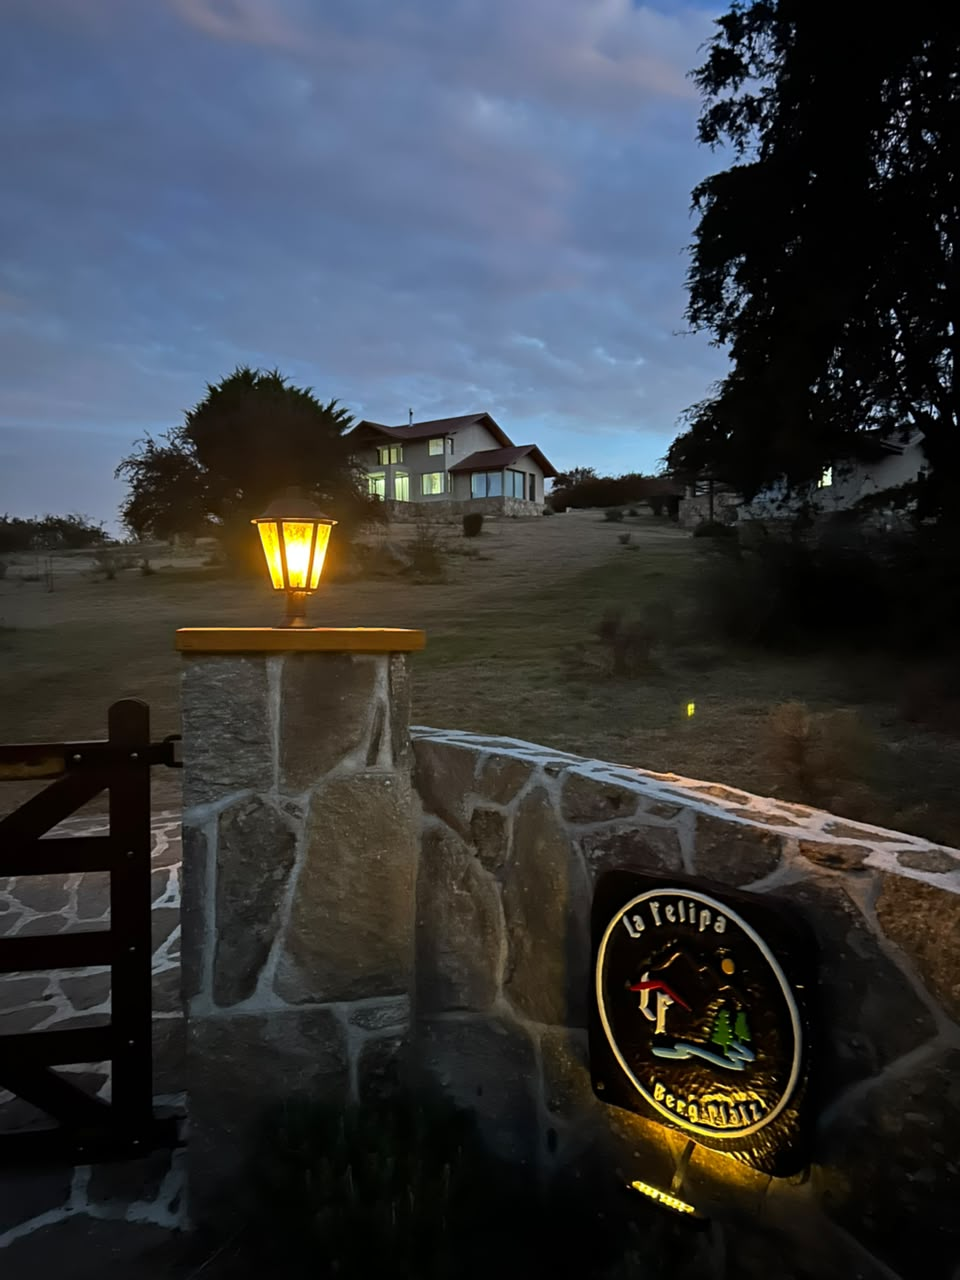
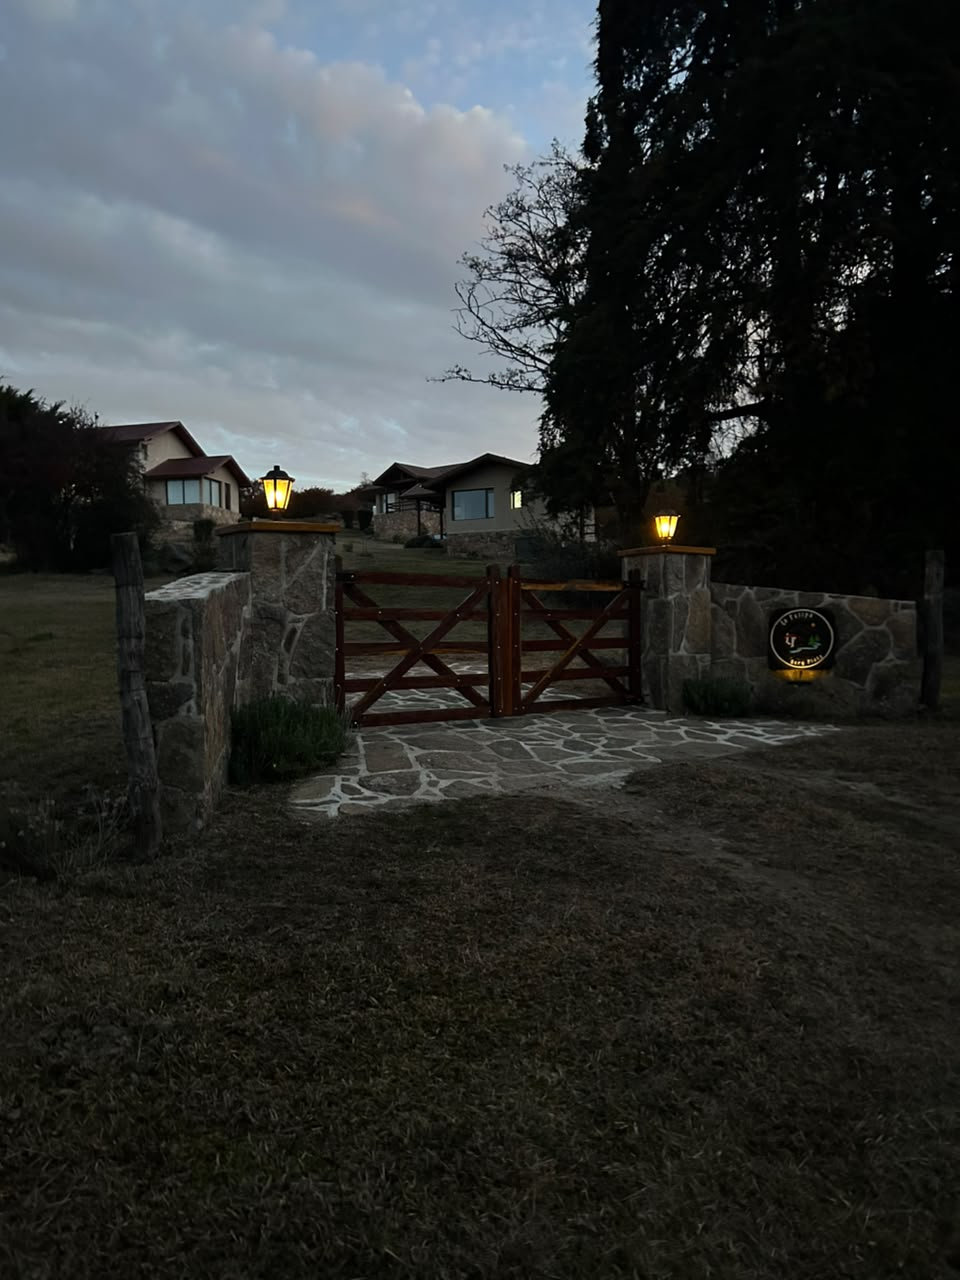
actualización de la galería: adición de nuevas imágenes y eliminación de obsoletas

diff --git a/src/components/Galeria/Galeria.jsx b/src/components/Galeria/Galeria.jsx
@@ -17,10 +17,9 @@ const imageNames = [
   'IMG_4786.JPG',
   'IMG_20.JPG',
   'IMG_18.JPG',
-  'IMG_21.JPG',
   'IMG_5006.JPG',
+  'IMG_21.JPG',
   'IMG_4508.JPG',
-  'IMG_4533.JPG',
 ];
 
 const galleryImages = imageNames.map((image) => ({
